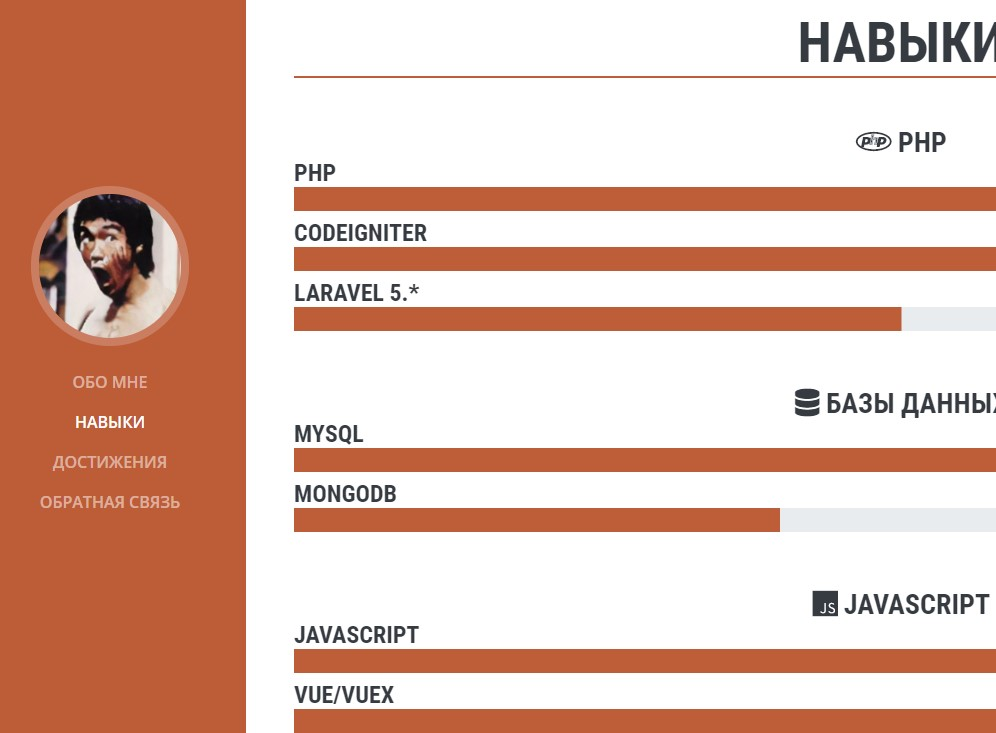
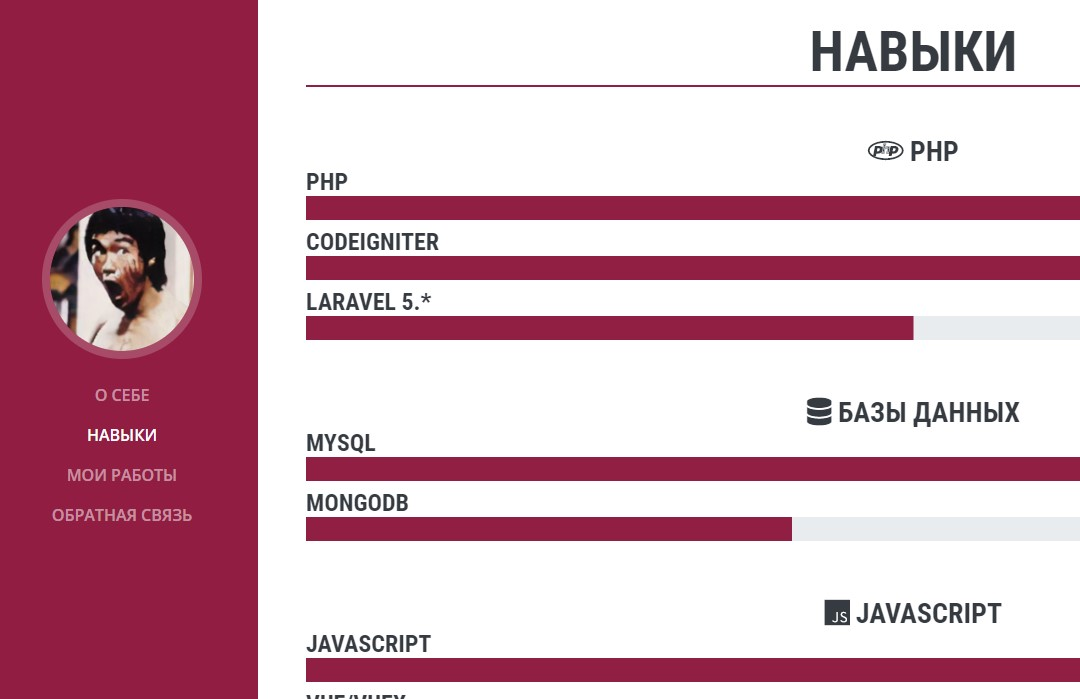
new color theme

diff --git a/src/components/Sidebar.vue b/src/components/Sidebar.vue
@@ -1,12 +1,12 @@
 <template lang="html">
-<nav class="navbar navbar-expand-lg navbar-dark bg-primary fixed-top slow-left-slip-in" id="sideNav">
+<nav class="navbar navbar-expand-lg navbar-dark bg-primary fixed-top" id="sideNav">
   <a class="navbar-brand">
     <span class="d-block d-lg-none"></span>
     <span class="d-none d-lg-block">
       <img class="img-fluid img-profile rounded-circle mx-auto mb-2" src="../../static/profile.jpg" alt="">
     </span>
   </a>
-  <button ref="navbarToggler" class="navbar-toggler" type="button" data-toggle="collapse" data-target="#navbarSupportedContent" aria-controls="navbarSupportedContent" aria-expanded="false" aria-label="Toggle navigation">
+  <button class="navbar-toggler" type="button" data-toggle="collapse" data-target="#navbarSupportedContent" aria-controls="navbarSupportedContent" aria-expanded="false" aria-label="Toggle navigation">
     <span class="navbar-toggler-icon"></span>
   </button>
   <div class="navbar-collapse collapse" id="navbarSupportedContent">
@@ -55,7 +55,8 @@ export default {
   watch: {
     '$route' (to, from) {
       this.currentRoute = to.name
-      this.$refs.navbarToggler.click()
+      /* eslint-disable no-undef */
+      $('.navbar-collapse').collapse('hide')
     }
   }
 }

diff --git a/src/pages/About.vue b/src/pages/About.vue
@@ -13,10 +13,11 @@
       <h4 class="mb-1">Что я ожидаю от работы?</h4>
       <p class="mb-5">
         <ul class="expectations">
-          <li>Профессиональный рост.</li>
-          <li>Адекватный менеджмент.</li>
-          <li>Возможность удаленной работы.</li>
+          <li class="primary">Возможность работать удаленно</li>
           <li>Работа в команде</li>
+          <li>Интересные задачи</li>
+          <li>Профессиональный рост</li>
+          <li>Адекватный менеджмент</li>
         </ul>
       В данный момент интересует работа с Vue/Vuex (Варианты с React/Angular2+ тоже рассмотрю)</p>
       <ul class="list-inline list-social-icons mb-0">
@@ -50,12 +51,16 @@ export default {
 </script>
 
 <style scoped lang="scss">
+@import "../assets/scss/variables";
 .expectations {
   padding: 0;
   margin-left: 1.25em;
   li {
     margin: 0;
     padding: 0;
+    &.primary {
+      color: $primary;
+    }
   }
 }
 </style>

diff --git a/src/assets/scss/_nav.scss b/src/assets/scss/_nav.scss
@@ -1,5 +1,4 @@
 #sideNav {
-  animation: sidebarMobileAnimation .5s forwards 0s linear;
   .navbar-brand {}
   .navbar-nav {
     .nav-item .nav-link {
@@ -22,7 +21,6 @@
     position: fixed;
     top: 0;
     left: 0;
-    animation: sidebarAnimation .5s forwards 0s linear;
 
     display: flex;
     flex-direction: column;

diff --git a/src/assets/scss/_variables.scss b/src/assets/scss/_variables.scss
@@ -26,7 +26,7 @@ $teal:    #20c997 !default;
 $cyan:    #17a2b8 !default;
 $cherry:  #911E42 !default;
 
-$primary:       $orange !default;
+$primary:       $cherry !default;
 $secondary:     $gray-600 !default;
 $success:       $green !default;
 $info:          $cyan !default;
